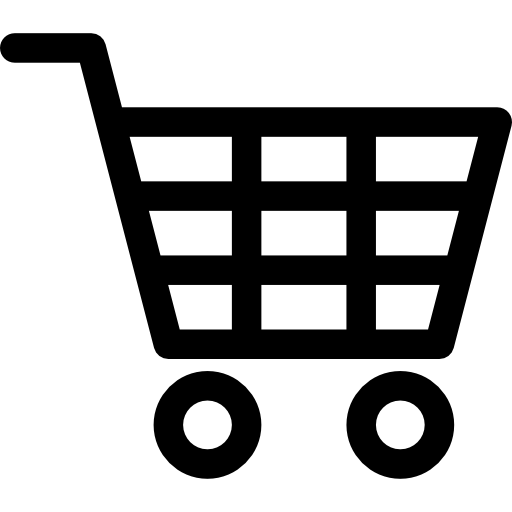
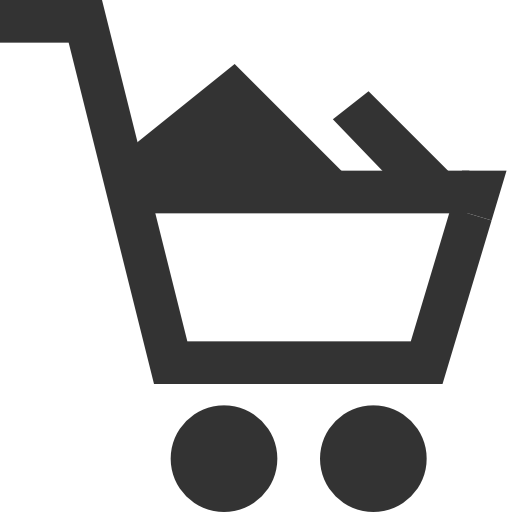
Puestos los botones en el encabezado

diff --git a/style.css b/style.css
@@ -74,12 +74,16 @@ img {
 nav {
 	float: left;
 	margin-left: 40px;
+        
+
 }
 nav ul {
 	margin: 0;
 	padding: 0;
 	list-style: none;
 	padding-right: 20px;
+
+	
 }
 	
 nav ul li {
@@ -92,9 +96,51 @@ nav ul li a {
 	padding: 0 10px;
 	text-decoration: none;
 				
-}		
+}
 
-		
+.im1 {
+
+	margin-left: 800px;
+ 	
+}
+/*
+.im2 {
+
+	margin-left: 800px;
+
+}*/
+	
+/*
+nav ul img1 {
+	
+	margin-left: 300px;
+        padding: 100;
+        list-style: none;
+        padding-right: 1px;
+	padding-bottom: 100px;
+        background-image: url("carrito.png");
+	background-size: cover;
+	background-repeat: no-repeat;
+        background-position: top,right;
+
+
+}	
+
+nav ul img2 {
+	
+	margin-left: 500px;
+        padding: 50;
+        list-style: none;
+        padding-right: 70px;
+	padding-bottom: 50px;
+        background-image: url("usuario.png");  
+        background-size: cover;
+        background-repeat: no-repeat;
+	background-position: top,right;
+	
+	
+}
+*/		
 nav ul li a:hover {
 	background: #0b76a6;
 }
@@ -123,6 +169,13 @@ nav ul li a:hover {
 
 #main-footer a {
 	color: white;
+}
+
+.imagenestop {
+
+	float: right;
+	align: top;
+
 }
 
 .searcher {

diff --git a/prueba1.html b/prueba1.html
@@ -21,9 +21,26 @@
 			<ul>
 				<li><a href="#">Categorías</a></li>
 				<li><a href="#">Contacto</a></li>
+
+				<img class="im1" src="carrito.png" alt="" no-repeat  
+					top= "-40px"; 
+					align="center";
+					style= "width: 40px; height:40px;"
+					HSPACE="20";
+				/>
+				
+				<img class="im2" src="usuario.png" alt="" no-repeat 
+					align="center";
+                                        style= "width: 35px; height:35px;"
+                                />
+
+
+				<!-- <img1 src="carrito.png" />
+				<img2 src="usuario.png"/> --> 
 			</ul>
-		</nav><!-- / nav -->
- 
+
+		</nav>
+	
 	</header><!-- / #main-header -->
 	
 	<section id="main-content" class="imagen" > 
